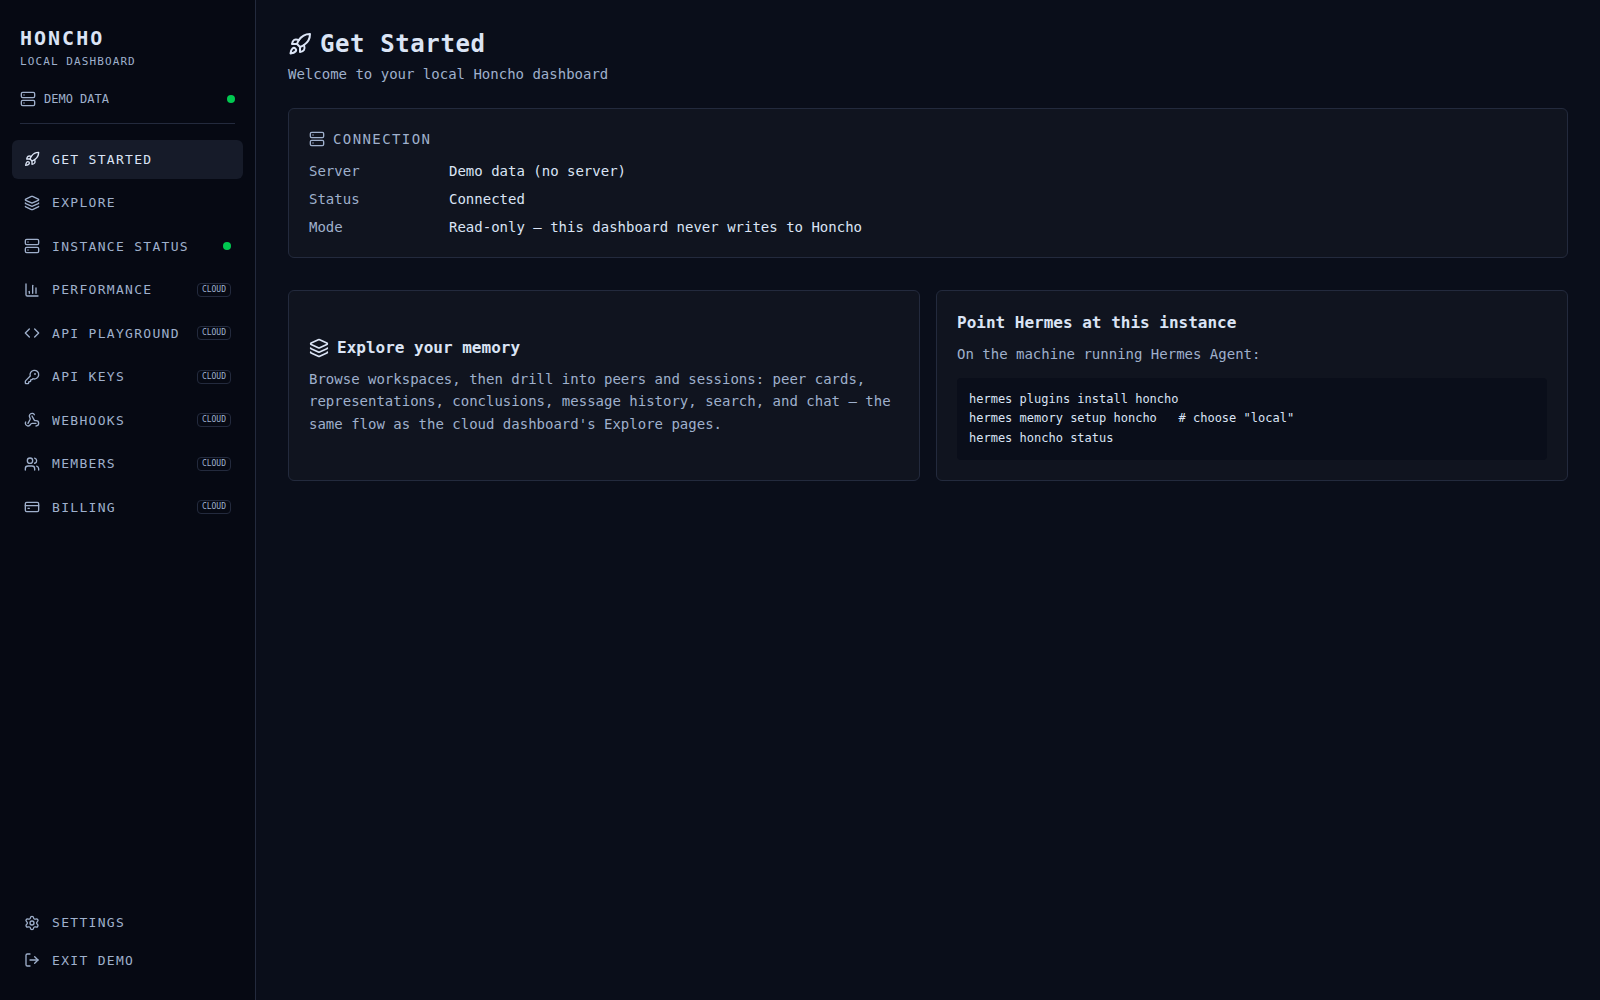
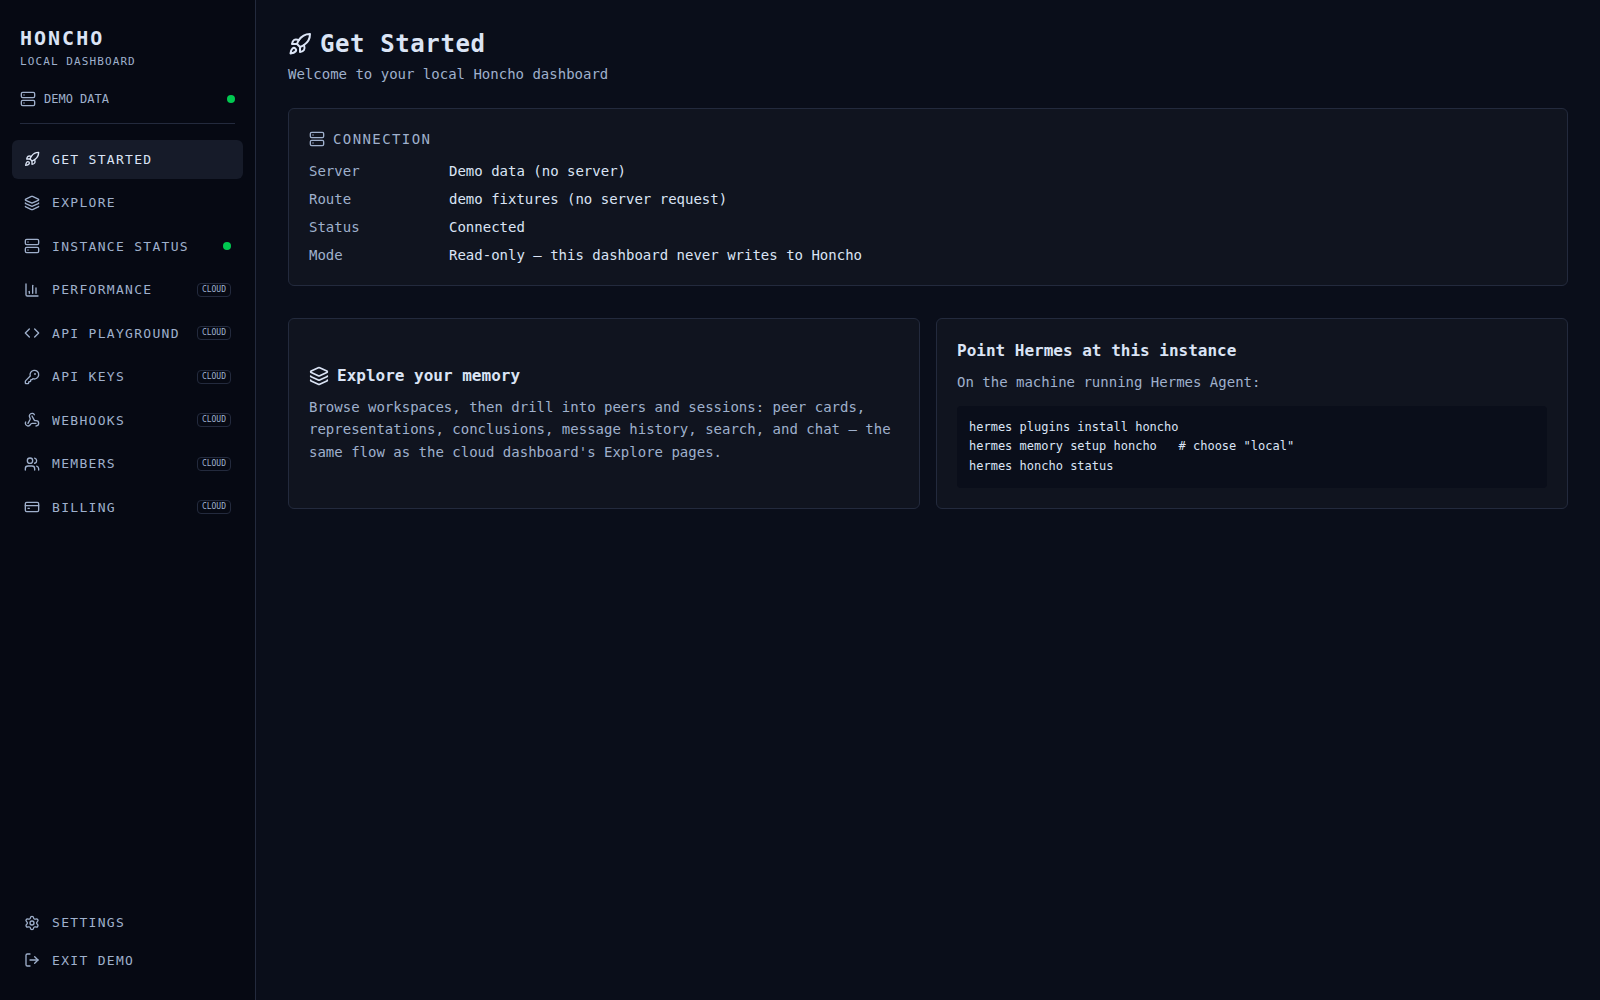
feat(diagnostics): health errors and Get Started page report the exact route tried
HonchoClient.routeDescription() describes the resolved route (proxy vs
direct, exact URL, configured server, useProxy state); DemoHonchoApi
returns 'demo fixtures (no server request)'. refreshHealth() appends
'— tried: <route>' to every health failure (network reject and HTTP
status alike) via formatHealthError(), so the Connect screen and the
in-app banner self-report what was attempted. Connection context also
exposes routeDescription, shown as a Route row on Get Started.

Tests: 24 -> 30 (routeDescription proxy/direct/demo + failed-health
messages through formatHealthError). Get Started screenshot baseline
regenerated (demo Route row) and verified byte-identical across runs.

diff --git a/src/__test__/client.test.ts b/src/__test__/client.test.ts
@@ -1,5 +1,12 @@
 import { describe, expect, it, vi } from 'vitest'
-import { HonchoClient, HonchoError, resolveRequestBase, shouldUseProxy } from '../api/client'
+import {
+  HonchoClient,
+  HonchoError,
+  formatHealthError,
+  resolveRequestBase,
+  shouldUseProxy,
+} from '../api/client'
+import { DemoHonchoApi } from '../api/demoClient'
 
 // Tests for the Honcho API client: URL building (including the dev-proxy
 // rule), the auth header, error handling, and request shapes for the
@@ -256,5 +263,79 @@ describe('HonchoClient', () => {
     const caught = await client.health().catch((error: unknown) => error)
     expect(caught).toBeInstanceOf(HonchoError)
     expect((caught as HonchoError).status).toBe(0)
+  })
+})
+
+describe('routeDescription', () => {
+  it('describes the proxy route with the configured server', () => {
+    const client = new HonchoClient({
+      baseUrl: 'http://localhost:8000',
+      proxyTarget: 'http://127.0.0.1:8000',
+      useProxy: true,
+    })
+    expect(client.routeDescription()).toBe(
+      'GET /honcho-api/health (via Vite proxy — useProxy on, configured server http://localhost:8000)',
+    )
+  })
+
+  it('describes a direct route when the proxy is off (production build)', () => {
+    const client = new HonchoClient({
+      baseUrl: 'http://localhost:8000',
+      proxyTarget: 'http://localhost:8000',
+      useProxy: false,
+    })
+    expect(client.routeDescription()).toBe(
+      'GET http://localhost:8000/health (direct, no proxy — useProxy off)',
+    )
+  })
+
+  it('describes a direct route in dev when the server is not the proxy target', () => {
+    const client = new HonchoClient({
+      baseUrl: 'http://192.168.1.50:8000',
+      proxyTarget: 'http://localhost:8000',
+      useProxy: true,
+    })
+    expect(client.routeDescription()).toBe(
+      'GET http://192.168.1.50:8000/health (direct, no proxy — useProxy on)',
+    )
+  })
+
+  it('demo client reports demo fixtures instead of a server route', () => {
+    expect(new DemoHonchoApi().routeDescription()).toBe('demo fixtures (no server request)')
+  })
+})
+
+describe('health failure diagnostics', () => {
+  it('a network-failed health check, surfaced via the connection, names the tried proxy route', async () => {
+    const fetchFn = vi.fn(async () => {
+      throw new Error('connection refused')
+    }) as unknown as typeof fetch
+    const client = new HonchoClient({
+      baseUrl: 'http://localhost:8000',
+      proxyTarget: 'http://localhost:8000',
+      useProxy: true,
+      fetchFn,
+    })
+
+    const caught = await client.health().catch((error: unknown) => error)
+    const message = formatHealthError(caught, client)
+
+    expect(message).toContain('Could not reach the Honcho server')
+    expect(message).toContain(
+      '— tried: GET /honcho-api/health (via Vite proxy — useProxy on, configured server http://localhost:8000)',
+    )
+  })
+
+  it('an HTTP-error health check, surfaced via the connection, names the tried direct route', async () => {
+    const fetchFn = mockFetch(jsonResponse({ detail: 'Invalid token' }, 401))
+    const client = new HonchoClient({ baseUrl: 'http://honcho.local:8000', fetchFn })
+
+    const caught = await client.health().catch((error: unknown) => error)
+    const message = formatHealthError(caught, client)
+
+    expect(message).toContain('Invalid token')
+    expect(message).toContain(
+      '— tried: GET http://honcho.local:8000/health (direct, no proxy — useProxy off)',
+    )
   })
 })

diff --git a/src/state/connection.tsx b/src/state/connection.tsx
@@ -9,7 +9,7 @@ import {
   type ReactNode,
 } from 'react'
 import type { HonchoApi } from '../api/honchoApi'
-import { HonchoClient, shouldUseProxy } from '../api/client'
+import { HonchoClient, formatHealthError, shouldUseProxy } from '../api/client'
 import { DemoHonchoApi } from '../api/demoClient'
 
 // Connection settings are persisted in localStorage so a refresh keeps the
@@ -32,6 +32,10 @@ interface ConnectionContextValue {
   api: HonchoApi | null
   mode: ConnectionMode | null
   baseUrl: string
+  // Route requests actually take (proxy vs direct, exact URL) — null when
+  // no connection is active. Surfaced on the Get Started page so even a
+  // working connection documents its path.
+  routeDescription: string | null
   health: HealthState
   healthError: string | null
   connect: (baseUrl: string, token: string) => Promise<void>
@@ -81,12 +85,15 @@ function createApi(saved: SavedConnection): HonchoApi {
 
 export function ConnectionProvider({ children }: { children: ReactNode }) {
   const [saved, setSaved] = useState<SavedConnection | null>(null)
+  const [routeDescription, setRouteDescription] = useState<string | null>(null)
   const [health, setHealth] = useState<HealthState>('unknown')
   const [healthError, setHealthError] = useState<string | null>(null)
   const apiRef = useRef<HonchoApi | null>(null)
 
   const applyConnection = useCallback((next: SavedConnection | null) => {
-    apiRef.current = next === null ? null : createApi(next)
+    const api = next === null ? null : createApi(next)
+    apiRef.current = api
+    setRouteDescription(api?.routeDescription() ?? null)
     setSaved(next)
     saveConnection(next)
     setHealth(next === null ? 'unknown' : 'checking')
@@ -104,11 +111,12 @@ export function ConnectionProvider({ children }: { children: ReactNode }) {
         setHealthError(null)
       } else {
         setHealth('failed')
-        setHealthError(`Unexpected health response: ${JSON.stringify(result)}`)
+        const unexpected = new Error(`Unexpected health response: ${JSON.stringify(result)}`)
+        setHealthError(formatHealthError(unexpected, api))
       }
     } catch (error) {
       setHealth('failed')
-      setHealthError(error instanceof Error ? error.message : 'Health check failed')
+      setHealthError(formatHealthError(error, api))
     }
   }, [])
 
@@ -150,6 +158,7 @@ export function ConnectionProvider({ children }: { children: ReactNode }) {
       api: saved === null ? null : apiRef.current,
       mode: saved?.mode ?? null,
       baseUrl: saved?.baseUrl ?? DEFAULT_BASE_URL,
+      routeDescription,
       health,
       healthError,
       connect,
@@ -157,7 +166,7 @@ export function ConnectionProvider({ children }: { children: ReactNode }) {
       disconnect,
       refreshHealth,
     }),
-    [saved, health, healthError, connect, startDemo, disconnect, refreshHealth],
+    [saved, routeDescription, health, healthError, connect, startDemo, disconnect, refreshHealth],
   )
 
   return <ConnectionContext.Provider value={value}>{children}</ConnectionContext.Provider>

diff --git a/src/api/client.ts b/src/api/client.ts
@@ -24,6 +24,14 @@ export class HonchoError extends Error {
   }
 }
 
+// Health-failure message with the tried route appended, so the Connect
+// screen and the in-app banner say exactly what was attempted (proxy vs
+// direct, which URL) instead of a bare "could not reach the server".
+export function formatHealthError(error: unknown, api: HonchoApi): string {
+  const message = error instanceof Error ? error.message : 'Health check failed'
+  return `${message} — tried: ${api.routeDescription()}`
+}
+
 export interface HonchoClientOptions {
   // The Honcho server the user wants to talk to, e.g. http://localhost:8000
   baseUrl: string
@@ -136,13 +144,30 @@ function describeErrorBody(body: unknown, fallback: string): string {
 
 export class HonchoClient implements HonchoApi {
   private readonly requestBase: string
+  private readonly configuredServer: string
+  private readonly useProxy: boolean
   private readonly token?: string
   private readonly fetchFn: typeof fetch
 
   constructor(options: HonchoClientOptions) {
     this.requestBase = resolveRequestBase(options)
+    this.configuredServer = stripTrailingSlash(options.baseUrl)
+    this.useProxy = options.useProxy ?? false
     this.token = options.token
     this.fetchFn = options.fetchFn ?? fetch
+  }
+
+  // Diagnostics: describes the route a request actually takes, so a failed
+  // health check can say exactly what was tried instead of a bare
+  // "could not reach the server". `path` defaults to the health endpoint,
+  // which is the request connection checks make.
+  routeDescription(method: 'GET' | 'POST' = 'GET', path = '/health'): string {
+    const url = `${this.requestBase}${path}`
+    if (this.requestBase === PROXY_PREFIX) {
+      return `${method} ${url} (via Vite proxy — useProxy on, configured server ${this.configuredServer})`
+    }
+    const proxyState = this.useProxy ? 'on' : 'off'
+    return `${method} ${url} (direct, no proxy — useProxy ${proxyState})`
   }
 
   private async request<T>(

diff --git a/src/pages/GetStartedPage.tsx b/src/pages/GetStartedPage.tsx
@@ -6,7 +6,7 @@ import { ErrorBox, PageHeader } from '../components/ui'
 // "Get Started" — the local counterpart of the cloud Welcome page:
 // connection summary, what this dashboard can do, and the first steps.
 export function GetStartedPage() {
-  const { mode, baseUrl, health, healthError } = useConnection()
+  const { mode, baseUrl, routeDescription, health, healthError } = useConnection()
 
   let statusText = 'Checking…'
   if (health === 'connected') statusText = 'Connected'
@@ -33,6 +33,12 @@ export function GetStartedPage() {
         <dl className="mt-3 grid grid-cols-[140px_1fr] gap-y-2 text-sm">
           <dt className="text-fog">Server</dt>
           <dd className="text-mist">{mode === 'demo' ? 'Demo data (no server)' : baseUrl}</dd>
+          {routeDescription ? (
+            <>
+              <dt className="text-fog">Route</dt>
+              <dd className="text-mist">{routeDescription}</dd>
+            </>
+          ) : null}
           <dt className="text-fog">Status</dt>
           <dd className="text-mist">{statusText}</dd>
           <dt className="text-fog">Mode</dt>

diff --git a/src/api/honchoApi.ts b/src/api/honchoApi.ts
@@ -15,6 +15,11 @@ import type {
 // Implemented twice: HonchoClient (live HTTP) and DemoHonchoApi (fixtures),
 // so every view can render without a live server in demo mode.
 export interface HonchoApi {
+  // Human-readable description of the route requests actually take, for
+  // connection diagnostics: proxy vs direct, the exact URL a request goes
+  // to, and the configured server. Shown in health errors and on the
+  // Get Started page so a failed connection reports what was tried.
+  routeDescription(): string
   health(): Promise<{ status: string }>
   // Best-effort server version from GET /openapi.json (info.version).
   serverVersion(): Promise<string | null>

diff --git a/src/api/demoClient.ts b/src/api/demoClient.ts
@@ -228,6 +228,10 @@ function searchMessages(pool: Message[], query: string, limit: number): Message[
 const allMessages: Message[] = Object.values(messagesBySession).flat()
 
 export class DemoHonchoApi implements HonchoApi {
+  routeDescription(): string {
+    return 'demo fixtures (no server request)'
+  }
+
   async health(): Promise<{ status: string }> {
     return { status: 'ok' }
   }
